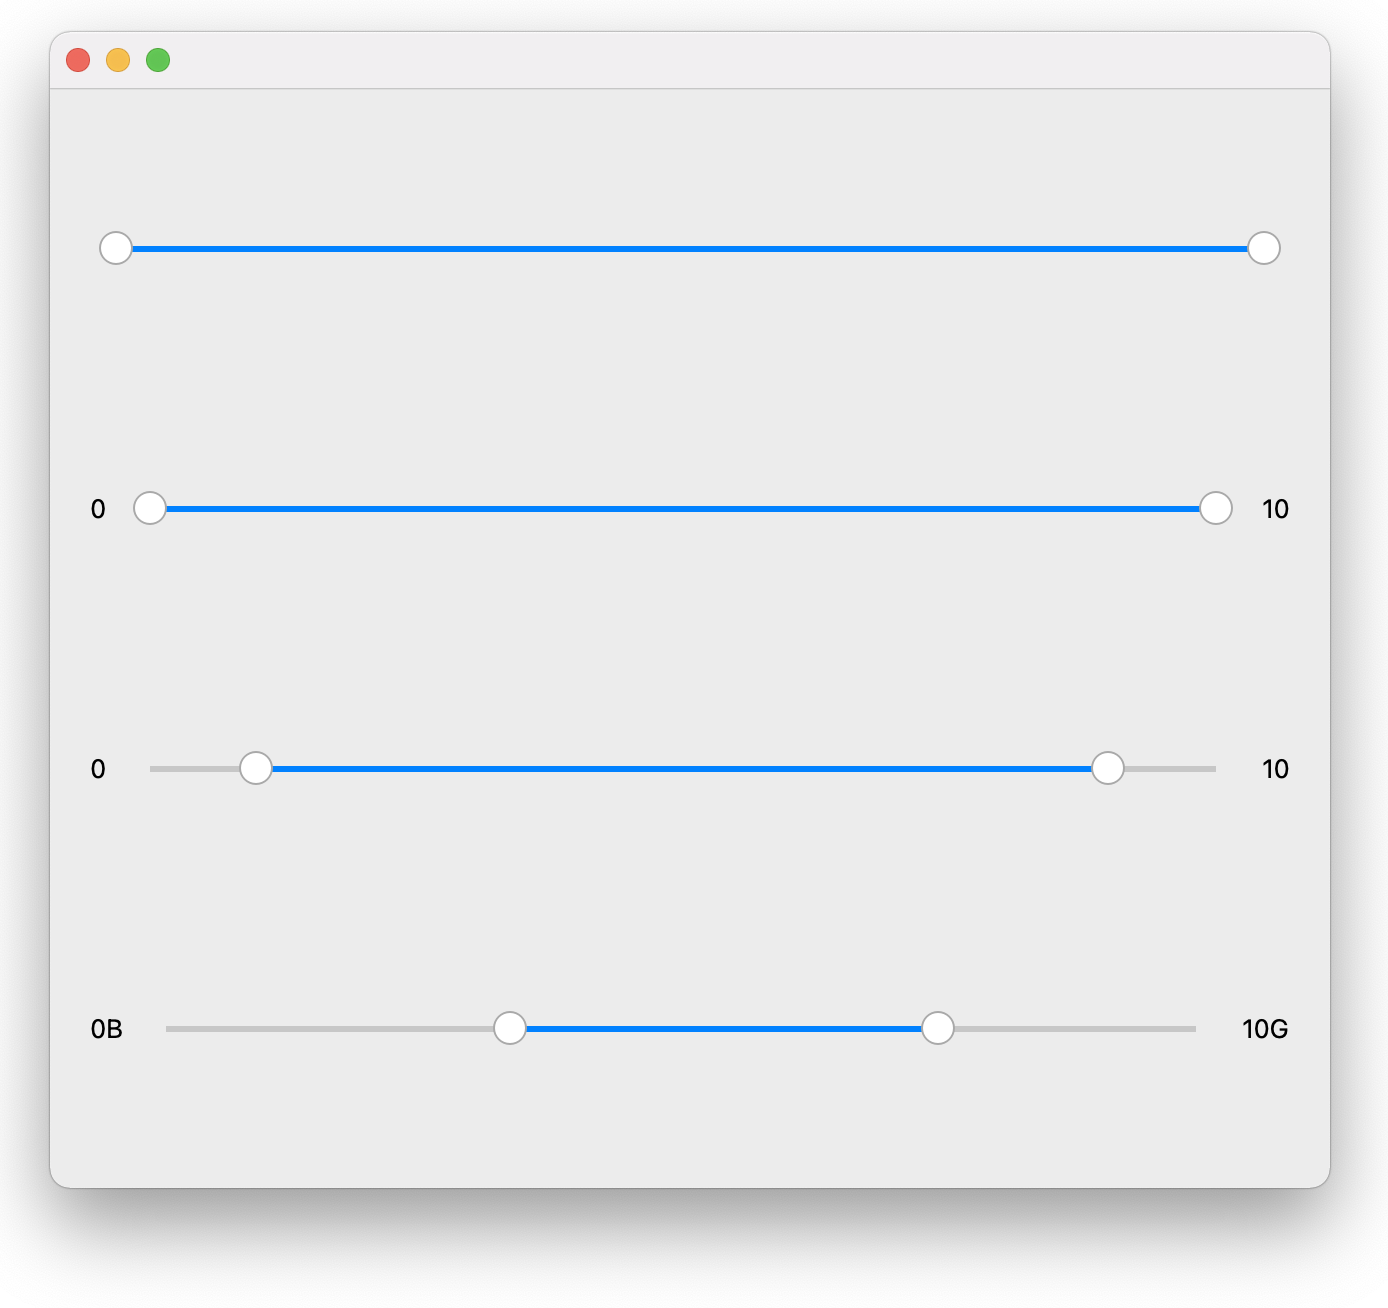
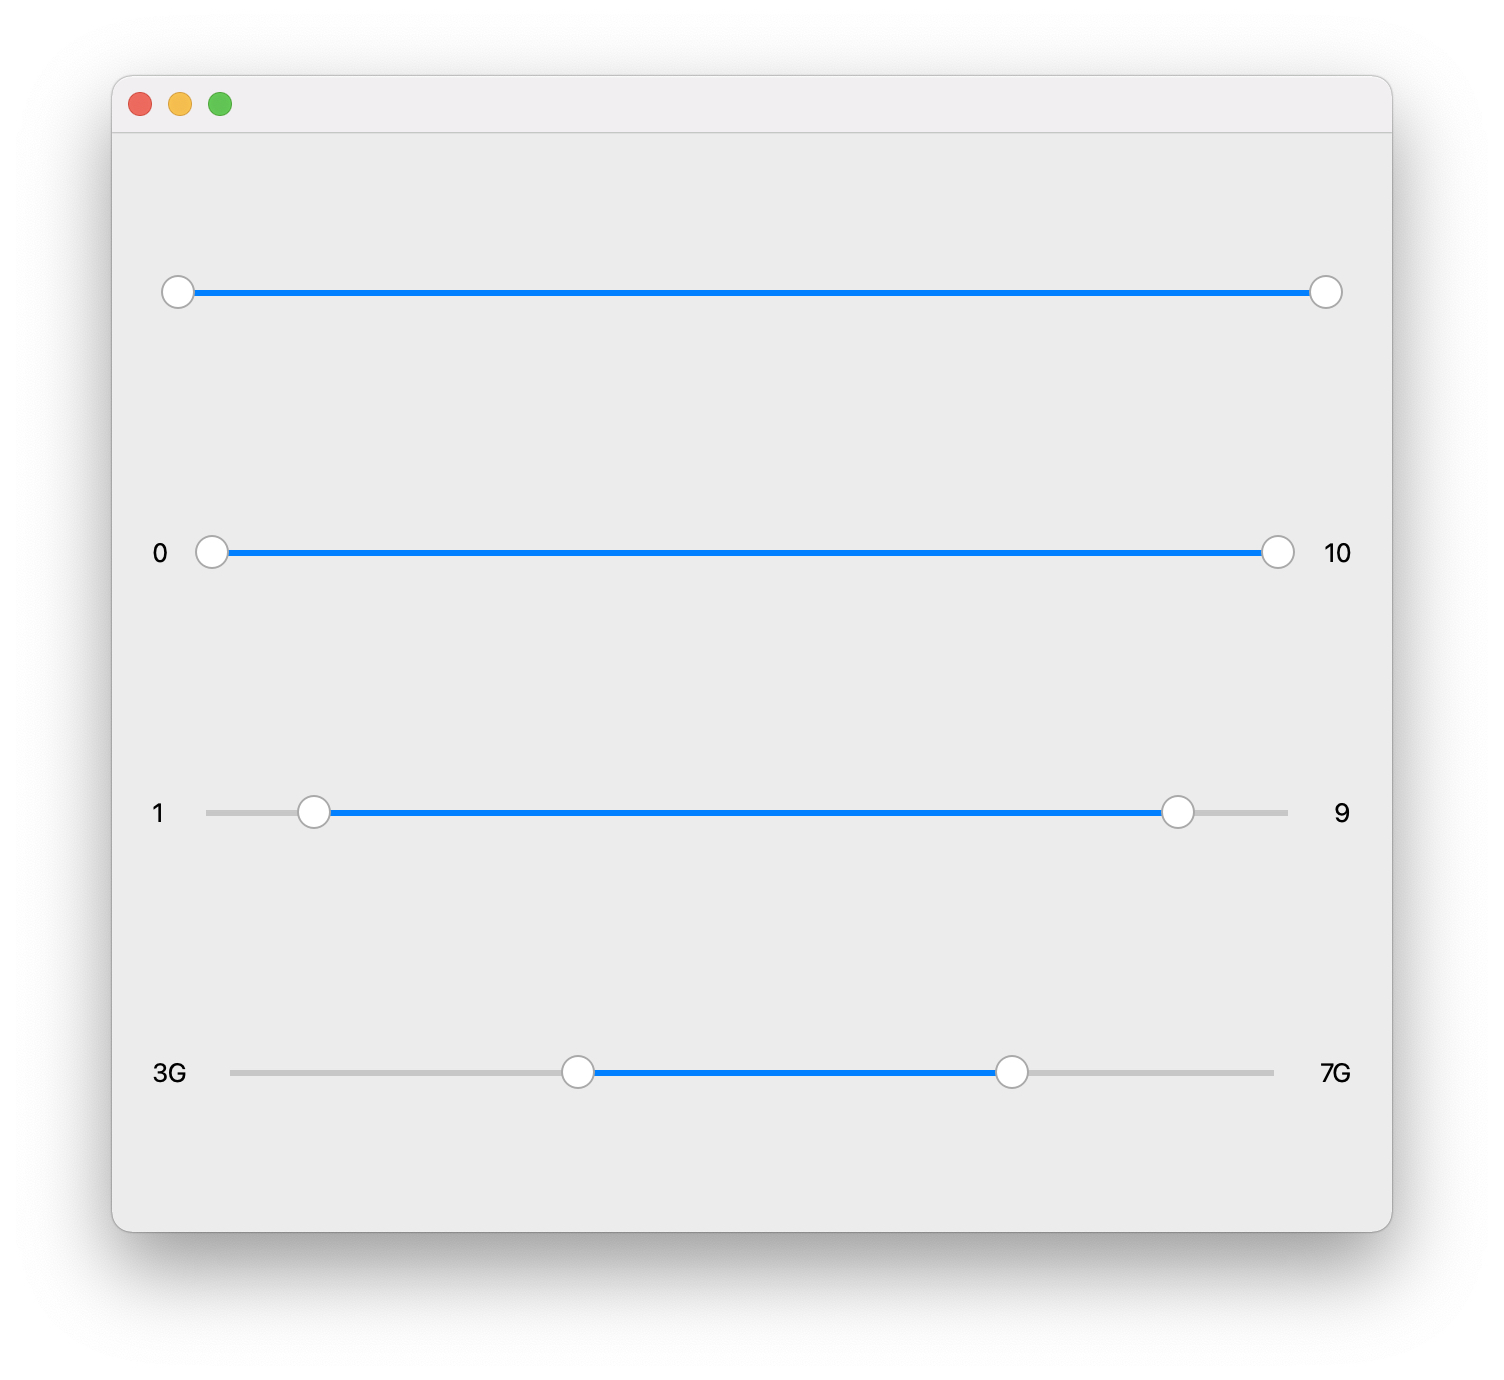
updated example and demo image

Changed region(s): [[0.0, 0.0306, 0.9914, 0.948]]

diff --git a/example.py b/example.py
@@ -18,8 +18,9 @@ def _render_slider_with_labels(parent, layout, min_value = 0, max_value = 10, \
 	left_thumb_value=0, right_thumb_value=None, size_value=False):
 	inner_layout = QHBoxLayout(parent)
 
-	label_min = QLabel(size(min_value) if size_value else str(min_value))
-	label_max = QLabel(size(max_value) if size_value else str(max_value))
+	label_min = QLabel(size(left_thumb_value) if size_value else str(left_thumb_value))
+	_right_thumb_value = right_thumb_value if right_thumb_value else max_value
+	label_max = QLabel(size(_right_thumb_value) if size_value else str(_right_thumb_value))
 	slider = QtRangeSlider(parent, min_value, max_value, left_thumb_value, right_thumb_value)
 	inner_layout.addWidget(label_min)
 	inner_layout.addWidget(slider)
